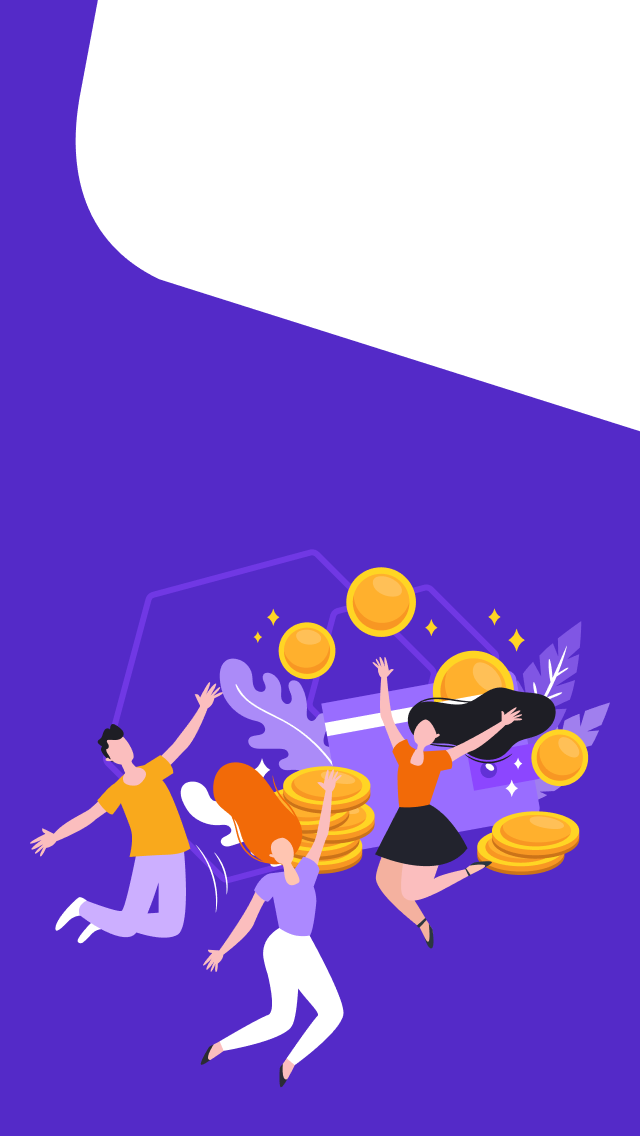
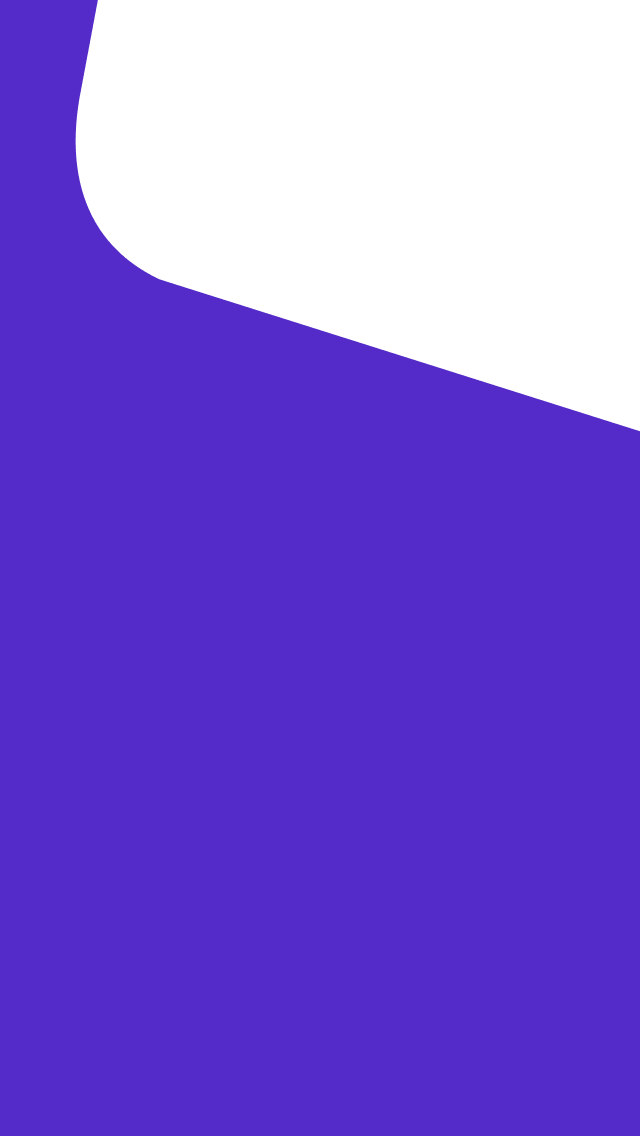
28.05.2020

diff --git a/program.html b/program.html
@@ -124,6 +124,33 @@
 						<path fill-rule="evenodd" clip-rule="evenodd" d="M174.639 63.7755L176.5 59.2242L171.951 55.0867L176.706 56.9486L178.154 52.1904L178.567 58.3967L183.322 59.8449L177.947 59.638L174.639 63.7755ZM179.187 62.3274C179.808 62.1205 180.014 61.293 179.808 60.8793C179.601 60.2586 178.774 60.0518 178.36 60.2586C177.74 60.4655 177.533 61.293 177.74 61.7068C177.947 62.3274 178.774 62.7412 179.187 62.3274Z" fill="#F1E9FF"></path>
 					</svg>
 				</div>
+				<div class="apendixLogoW">
+					<svg viewBox="0 0 577 82" fill="none" xmlns="http://www.w3.org/2000/svg">
+						<path fill-rule="evenodd" clip-rule="evenodd" d="M51.6156 80.3269V77.6375C46.6536 77.0169 45.8266 75.9825 43.1389 69.3624C38.177 56.7429 33.4218 43.7097 28.6666 30.8833L24.7383 31.9177L9.23224 69.7762C6.75127 76.1894 5.92428 77.2238 0.755576 77.6375L0.548828 80.3269H17.5022V77.6375C11.92 77.0169 11.92 75.7756 12.9537 72.4656C13.7807 69.3624 14.8144 66.673 15.6414 64.1905H30.3205C31.561 67.2937 32.8015 70.6037 33.4218 72.8793C34.4555 75.9825 34.2488 77.0169 29.7003 77.6375V80.3269H51.6156ZM29.0801 60.2598H17.0887C18.9494 55.0879 21.0169 49.7091 23.0844 44.3303H23.2911L29.0801 60.2598ZM129.766 80.3269V77.6375C123.771 77.0169 123.357 76.3962 123.357 69.3624L122.53 42.2616C122.323 36.0552 122.737 35.2277 128.733 34.6071V31.9177H113.64L98.3406 64.6043L83.4548 31.9177H67.7419V34.6071C74.3579 35.2277 74.9781 36.2621 74.1511 44.7441L72.9106 59.0186C72.2904 67.0868 71.6702 70.8106 71.2567 73.2931C70.8432 75.9825 69.3959 77.2238 65.0542 77.6375V80.3269H83.4548V77.6375C78.2861 77.2238 77.0456 76.6031 76.6321 73.2931C76.4254 70.8106 76.2186 67.5005 76.6321 61.2942L77.6658 41.8478H77.8726L93.5854 79.9132H95.6529L112.606 41.434H113.02L113.227 69.7762C113.433 76.6031 112.813 77.4306 107.231 78.0513V80.7407H129.766V80.3269ZM176.698 80.3269V77.6375C171.116 77.0169 170.289 76.6031 170.289 70.1899V41.8478C170.289 35.4346 170.909 35.0209 176.698 34.6071V31.9177H153.956V34.6071C159.538 35.0209 160.365 35.6415 160.365 41.8478V70.1899C160.365 76.6031 159.538 77.0169 153.956 77.6375V80.3269H176.698ZM247.819 78.465C245.959 77.8444 244.925 77.0169 243.271 75.3619C241.824 73.7068 240.17 71.4312 237.482 67.2937C235.208 63.9836 232.52 59.0186 231.28 56.9498C236.242 55.0879 240.79 51.3641 240.79 44.7441C240.79 40.1928 238.723 36.8828 235.828 34.814C232.727 32.7452 228.799 32.1246 221.976 32.1246H200.888V34.814C206.47 35.2277 207.09 36.0553 207.09 42.0547V70.3968C207.09 76.3962 206.056 77.2238 200.474 77.8444V80.5338H223.216V77.8444C217.428 77.2238 216.807 76.6031 216.807 70.3968V59.6392H218.255C220.735 59.6392 222.183 60.4667 223.423 62.7424C225.697 66.673 227.558 70.6037 229.626 73.7068C232.727 78.2581 235.621 80.5338 245.339 80.9475C246.165 80.9475 246.992 80.9475 247.406 80.9475L247.819 78.465ZM217.014 56.7429V38.5378C217.014 37.0896 217.221 36.2621 217.634 35.8484C218.255 35.4346 219.288 35.0209 221.149 35.0209C225.491 35.0209 230.039 37.9171 230.039 45.7785C230.039 49.5022 229.005 52.3985 226.318 54.6742C224.664 56.1223 221.976 56.7429 218.668 56.7429H217.014ZM304.055 66.673C300.127 74.3275 295.785 78.465 287.929 78.465C275.937 78.465 267.461 69.1556 267.461 55.0879C267.461 44.1234 274.283 33.5727 287.308 33.5727C295.578 33.5727 300.747 36.8828 302.814 44.951L305.089 44.5372C304.675 40.3997 304.055 37.0896 303.435 32.9521C301.367 32.5383 295.785 30.8833 289.376 30.8833C271.802 30.8833 259.191 41.2272 259.191 56.7429C259.191 68.5349 267.874 81.3613 287.515 81.3613C293.097 81.3613 299.92 79.7063 301.987 79.2925C303.228 77.0169 305.295 71.0174 306.329 67.5005L304.055 66.673ZM356.982 80.12V78.0513C352.02 77.6375 350.987 76.81 348.506 70.1899C343.544 57.1567 338.582 43.9166 333.827 30.8833L331.139 31.504L315.219 70.1899C312.532 76.81 311.498 77.2238 306.536 78.0513V80.12H323.283V78.0513C317.494 77.4306 316.873 76.6031 318.527 72.0518C319.561 69.1556 320.595 66.2593 321.835 62.7424H338.168C339.822 67.0868 341.063 70.6037 342.303 73.7068C343.337 76.6031 342.717 77.4306 337.962 78.0513V80.12H356.982ZM337.135 59.6392H323.076C325.35 53.6398 327.831 47.2266 330.105 41.2272H330.312L337.135 59.6392ZM364.425 31.9177V33.9865C370.008 34.4002 370.628 34.6071 370.628 41.2272V70.6037C370.628 76.81 370.008 77.4306 364.012 77.8444V79.9132H385.1V77.8444C378.277 77.4306 377.451 77.0169 377.451 70.6037V59.2255L383.033 60.6736C383.86 60.6736 385.514 60.6736 386.547 60.4667C393.99 59.6392 401.433 54.881 401.433 45.1578C401.433 40.1928 399.573 36.8828 396.471 34.6071C393.37 32.5383 389.028 31.7108 383.653 31.7108H364.425V31.9177ZM377.864 38.7446C377.864 36.6759 378.071 35.8484 378.691 35.4346C379.311 34.814 380.758 34.6071 382.826 34.6071C388.822 34.6071 393.99 37.9171 393.99 45.9853C393.99 55.5017 387.995 57.9842 383.239 57.9842C380.758 57.9842 378.691 57.3636 377.864 57.1567V38.7446ZM430.171 80.12V78.0513C423.969 77.6375 423.349 77.2237 423.349 70.8106V41.434C423.349 35.0209 423.969 34.6071 430.171 34.1934V31.9177H409.496V34.1934C415.699 34.6071 416.319 35.0209 416.319 41.434V70.8106C416.319 77.2237 415.699 77.6375 409.496 78.0513V80.12H430.171ZM481.651 43.7097C481.238 39.1584 480.824 33.5727 480.824 30.2627H479.171C477.93 31.7108 477.31 32.1246 475.242 32.1246H444.437C442.163 32.1246 441.336 32.1246 440.095 30.2627H438.441C438.234 34.4002 438.028 39.1584 437.614 44.1234H439.888C440.922 40.6065 441.542 38.5378 442.576 37.0896C443.61 35.4346 445.264 34.814 451.88 34.814H456.221V71.0174C456.221 77.0169 455.601 77.8444 448.572 78.2581V80.3269H471.107V78.2581C463.871 77.8444 463.251 77.0169 463.251 71.0174V34.814H468.42C474.209 34.814 475.449 35.4346 476.896 37.0896C477.93 38.3309 478.757 40.3997 479.377 44.1234L481.651 43.7097ZM532.305 80.12V78.0513C527.343 77.6375 526.309 76.81 523.828 70.1899C518.866 57.1567 513.904 43.9166 509.149 30.8833L506.461 31.504L490.542 70.1899C487.854 76.81 486.82 77.2238 481.858 78.0513V80.12H498.605V78.0513C492.816 77.4306 492.196 76.6031 493.85 72.0518C494.883 69.1556 495.917 66.2593 497.158 62.7424H513.491C515.145 67.0868 516.385 70.6037 517.626 73.7068C518.659 76.6031 518.039 77.4306 513.284 78.0513V80.12H532.305ZM512.25 59.6392H498.398C500.672 53.6398 503.153 47.2266 505.427 41.2272H505.634L512.25 59.6392ZM574.481 67.9143C573.241 71.4312 571.794 73.9137 570.346 75.3619C568.692 77.2237 566.005 77.8444 561.87 77.8444C558.975 77.8444 556.288 77.6375 554.84 76.81C553.393 75.9825 552.98 74.5344 552.98 70.6037V41.6409C552.98 35.2277 553.6 34.814 559.595 34.4002V32.1246H539.127V34.4002C545.33 34.814 545.95 35.2277 545.95 41.6409V70.6037C545.95 77.0169 545.33 77.6375 538.714 78.0513V80.12H573.654C574.481 77.8444 575.929 70.8106 576.549 68.1212L574.481 67.9143Z" fill="#fff"></path>
+						<path fill-rule="evenodd" clip-rule="evenodd" d="M169.883 0.885279L166.369 4.40219L168.85 10.1947L165.128 6.47096L161.82 10.1947L164.095 4.40219L160.373 1.09216L165.128 3.57468L169.883 0.885279ZM165.128 0.264648C164.508 0.264648 164.095 0.678402 164.095 1.29903C164.095 1.91966 164.508 2.33342 165.128 2.33342C165.749 2.33342 166.162 1.91966 166.162 1.29903C166.369 0.678402 165.749 0.264648 165.128 0.264648Z" fill="#fff"></path>
+						<path fill-rule="evenodd" clip-rule="evenodd" d="M160.37 0.884766L157.889 5.22918L161.818 9.98735L157.476 7.50483L155.202 12.0561L155.822 5.84981L151.273 3.57417L156.442 4.40167L160.37 0.884766ZM155.615 1.71227C154.995 1.91915 154.788 2.53978 154.788 3.16041C154.995 3.78104 155.615 3.98792 156.235 3.98792C156.856 3.98792 157.062 3.16041 157.062 2.53978C156.856 1.91915 156.235 1.5054 155.615 1.71227Z" fill="#fff"></path>
+						<path fill-rule="evenodd" clip-rule="evenodd" d="M151.071 3.78125L150.038 8.7463L155.206 12.0563L150.244 11.0219L149.417 15.987L148.177 9.98756L143.215 9.16005L148.59 8.53942L151.071 3.78125ZM146.936 5.85002C146.523 6.26377 146.316 6.8844 146.73 7.50503C147.143 7.91879 147.763 8.12567 148.384 7.71191C148.797 7.29816 149.004 6.67753 148.59 6.0569C147.97 5.64314 147.35 5.64314 146.936 5.85002Z" fill="#fff"></path>
+						<path fill-rule="evenodd" clip-rule="evenodd" d="M143.214 9.16016L143.628 14.1252L149.624 15.7802L144.662 16.194L145.282 21.159L142.181 15.7802L137.219 16.6077L141.974 14.3321L143.214 9.16016ZM139.7 12.4702C139.286 12.8839 139.286 13.7114 139.906 14.1252C140.32 14.539 141.147 14.539 141.56 13.9183C141.974 13.5046 141.767 12.6771 141.354 12.2633C140.733 11.8496 140.113 12.0564 139.7 12.4702Z" fill="#fff"></path>
+						<path fill-rule="evenodd" clip-rule="evenodd" d="M137.22 16.6084L139.08 21.1597H145.283L140.527 23.0216L142.595 27.5729L138.046 23.2285L133.498 25.2972L137.426 21.7803L137.22 16.6084ZM134.945 20.7459C134.739 21.3666 134.945 21.9872 135.566 22.1941C136.186 22.401 136.806 22.1941 137.013 21.5734C137.22 20.9528 137.013 20.3322 136.393 20.1253C135.772 19.9184 135.152 20.3322 134.945 20.7459Z" fill="#fff"></path>
+						<path fill-rule="evenodd" clip-rule="evenodd" d="M133.704 25.71L136.805 29.6406L142.801 27.7787L138.872 30.8819L142.18 34.6057L136.598 31.7094L132.877 35.0194L135.564 30.4681L133.704 25.71ZM132.67 30.2613C132.67 30.8819 133.083 31.5025 133.704 31.5025C134.324 31.5025 134.944 31.0888 134.944 30.4681C134.944 29.8475 134.531 29.2269 133.91 29.2269C133.29 29.2269 132.67 29.6406 132.67 30.2613Z" fill="#fff"></path>
+						<path fill-rule="evenodd" clip-rule="evenodd" d="M132.875 35.2261L137.01 38.1224L142.179 34.6055L139.284 38.743L143.626 41.2255L137.423 40.1911L134.942 44.5356L136.183 39.3636L132.875 35.2261ZM133.289 39.9843C133.495 40.6049 134.115 41.0187 134.529 40.8118C135.149 40.6049 135.563 39.9843 135.356 39.5705C135.149 38.9499 134.529 38.5361 134.115 38.743C133.495 38.743 133.289 39.3636 133.289 39.9843Z" fill="#fff"></path>
+						<path fill-rule="evenodd" clip-rule="evenodd" d="M135.145 44.5355L139.9 45.9836L143.621 41.0186L142.174 45.7767L146.929 47.018L140.727 47.8455L139.486 52.6037L139.279 47.2249L135.145 44.5355ZM136.799 49.0868C137.005 49.7074 137.832 49.9143 138.246 49.5005C138.866 49.2936 139.073 48.4661 138.659 48.0524C138.452 47.4317 137.626 47.2249 137.212 47.6386C136.592 47.8455 136.592 48.4661 136.799 49.0868Z" fill="#fff"></path>
+						<path fill-rule="evenodd" clip-rule="evenodd" d="M139.699 52.8131H144.661L146.935 47.0205V51.9856L151.897 51.7787L146.315 54.2612L146.522 59.2262L144.868 54.4681L139.699 52.8131ZM142.8 56.5368C143.214 56.9506 144.041 56.9506 144.454 56.5368C144.868 56.1231 144.868 55.2956 144.454 54.8818C144.041 54.4681 143.214 54.4681 142.8 54.8818C142.18 55.5025 142.387 56.1231 142.8 56.5368Z" fill="#fff"></path>
+						<path fill-rule="evenodd" clip-rule="evenodd" d="M146.725 59.4318L151.48 57.9837L151.893 51.7773L153.341 56.5355L158.096 54.8805L153.547 59.018L155.201 63.7762L152.1 59.6387L146.725 59.4318ZM150.653 62.1212C151.273 62.3281 151.893 62.1212 152.1 61.7074C152.307 61.0868 152.1 60.4662 151.687 60.2593C151.066 60.0524 150.446 60.2593 150.239 60.6731C149.826 61.2937 150.033 61.9143 150.653 62.1212Z" fill="#fff"></path>
+						<path fill-rule="evenodd" clip-rule="evenodd" d="M179.189 3.78022L174.64 6.05587L175.26 12.2622L172.986 7.71088L168.645 10.1934L172.573 5.43524L170.092 1.09082L173.813 4.81461L179.189 3.78022ZM174.847 1.71145C174.227 1.50457 173.606 1.91833 173.4 2.53896C173.193 3.15959 173.606 3.78022 174.227 3.9871C174.847 4.19397 175.467 3.78022 175.674 3.15959C175.674 2.53896 175.467 1.91833 174.847 1.71145Z" fill="#fff"></path>
+						<path fill-rule="evenodd" clip-rule="evenodd" d="M187.044 9.1599L182.082 9.9874L180.842 15.9868L180.015 11.0218L175.26 12.0562L180.428 8.53927L179.395 3.57422L181.876 8.53927L187.044 9.1599ZM183.53 5.84986C183.116 5.43611 182.289 5.64299 181.876 6.05674C181.462 6.4705 181.669 7.298 182.082 7.71176C182.496 8.12551 183.323 7.91863 183.736 7.50488C184.15 7.09113 184.15 6.26362 183.53 5.84986Z" fill="#fff"></path>
+						<path fill-rule="evenodd" clip-rule="evenodd" d="M193.04 16.6077L188.078 15.9871L185.183 21.3659L185.804 16.4008L180.842 15.9871L186.837 14.1252L187.251 9.16016L188.285 14.3321L193.04 16.6077ZM190.766 12.4702C190.352 12.0564 189.732 11.8496 189.112 12.2633C188.698 12.6771 188.491 13.2977 188.905 13.9183C189.318 14.3321 189.939 14.539 190.559 14.1252C190.972 13.7114 190.972 12.8839 190.766 12.4702Z" fill="#fff"></path>
+						<path fill-rule="evenodd" clip-rule="evenodd" d="M196.756 25.7111L192.207 23.6424L187.659 27.9868L189.726 23.4355L185.178 21.5736H191.38L193.241 16.8154L192.827 21.9874L196.756 25.7111ZM195.515 20.953C195.308 20.3323 194.688 20.1255 194.068 20.3323C193.448 20.5392 193.241 21.1598 193.448 21.7805C193.654 22.4011 194.275 22.608 194.895 22.4011C195.515 22.1942 195.929 21.5736 195.515 20.953Z" fill="#fff"></path>
+						<path fill-rule="evenodd" clip-rule="evenodd" d="M197.377 35.4333L193.656 32.1233L188.28 34.8127L191.588 31.0889L187.66 27.9858L193.449 29.8477L196.55 25.917L194.483 30.882L197.377 35.4333ZM197.791 30.6752C197.791 30.0545 197.171 29.6408 196.55 29.6408C195.93 29.6408 195.517 30.2614 195.517 30.882C195.517 31.5027 196.137 31.9164 196.757 31.9164C197.377 31.9164 197.791 31.2958 197.791 30.6752Z" fill="#fff"></path>
+						<path fill-rule="evenodd" clip-rule="evenodd" d="M195.312 44.7426L192.831 40.3982L186.629 41.4326L190.971 38.95L188.283 34.8125L193.245 38.3294L197.38 35.64L194.072 39.7775L195.312 44.7426ZM196.966 40.3982C197.173 39.7775 196.76 39.1569 196.139 38.95C195.519 38.7432 194.899 39.1569 194.692 39.7775C194.485 40.3982 194.899 41.0188 195.519 41.2257C196.139 41.4326 196.76 41.0188 196.966 40.3982Z" fill="#fff"></path>
+						<path fill-rule="evenodd" clip-rule="evenodd" d="M190.348 53.2265L189.314 48.2615L183.111 47.434L188.073 46.1927L186.626 41.4346L190.348 46.3996L195.103 44.9515L190.761 47.8477L190.348 53.2265ZM193.449 49.2959C193.862 48.6753 193.655 48.0546 193.035 47.8477C192.415 47.434 191.795 47.6409 191.588 48.2615C191.175 48.8821 191.381 49.5028 192.002 49.7096C192.415 50.1234 193.035 49.9165 193.449 49.2959Z" fill="#fff"></path>
+						<path fill-rule="evenodd" clip-rule="evenodd" d="M183.321 59.6393L183.735 54.6743L178.152 51.9849L183.114 52.3986V47.4336L185.182 53.2262H190.144L184.975 54.6743L183.321 59.6393ZM187.249 56.9499C187.663 56.5362 187.663 55.9156 187.249 55.2949C186.836 54.8812 186.216 54.8812 185.595 55.2949C185.182 55.7087 185.182 56.3293 185.595 56.9499C186.216 57.3637 186.836 57.3637 187.249 56.9499Z" fill="#fff"></path>
+						<path fill-rule="evenodd" clip-rule="evenodd" d="M174.639 63.7755L176.5 59.2242L171.951 55.0867L176.706 56.9486L178.154 52.1904L178.567 58.3967L183.322 59.8449L177.947 59.638L174.639 63.7755ZM179.187 62.3274C179.808 62.1205 180.014 61.293 179.808 60.8793C179.601 60.2586 178.774 60.0518 178.36 60.2586C177.74 60.4655 177.533 61.293 177.74 61.7068C177.947 62.3274 178.774 62.7412 179.187 62.3274Z" fill="#fff"></path>
+					</svg>
+				</div>
+				<div class="apendixImg">
+					<img src="img/program/promoImg_table.png" alt="">
+				</div>
 				<div class="promoContent_svg">
 					<svg viewBox="0 0 780 722" fill="none" xmlns="http://www.w3.org/2000/svg">
 						<path d="M680.127 288.912C681.012 289.797 681.357 291.087 681.032 292.295L611.454 551.062C611.13 552.267 610.189 553.209 608.983 553.533L350.217 623.111C349.008 623.436 347.718 623.09 346.833 622.206L157.657 433.029C156.772 432.144 156.427 430.854 156.752 429.645L226.329 170.879C226.653 169.674 227.595 168.732 228.801 168.408L487.567 98.8304C488.775 98.5054 490.066 98.8505 490.951 99.7354L680.127 288.912Z" stroke="#7038E4" stroke-width="3"/>

diff --git a/css/program.css b/css/program.css
@@ -5,6 +5,14 @@
 	background-size: cover;
 	color: #fff;
 }
+.apendixImg{
+    display: none;
+    z-index: 3;
+    position: absolute;
+}
+.apendixImg img{
+    width: 100%;
+}
 h1{
 	font-family: 'Gilroy-SemiBold';
 }
@@ -12,6 +20,9 @@ h1{
 	display: block;
 	width: 40vw;
 	top: 50%;
+}
+.apendixLogoW{
+    display: none;
 }
 .bill_head{
     z-index: 21;
@@ -790,6 +801,9 @@ h1{
     .footer .container_bloc{
         padding-top: 0;
     }
+    .desctop-menu>ul>li:nth-child(6) {
+        margin-left: 45px;
+    }
 }
 @media (max-width: 992px) {
     .promoContent .container{
@@ -799,19 +813,29 @@ h1{
         background-size: cover;
     }
     .promoContent_svg{
-        top: 35%;
-        width: 400px;
+        top: 40%;
+        width: 45vw;
+    }
+    .apendixImg{
+        display: block;
+        position: absolute;
+        width: 55%;
+        left: 40%;
+        top: 20%;
     }
 }
 @media (max-width: 768px) {
     .promoContent h5{
-        font-size: 1.25em;
+        font-size: 1.45em;
     }
     .promoContent_svg{
-        display: none;
+        top: 20%;
+        left: 50%;
+        width: 80vw;
+        transform: translateX(-50%);
     }
     .promoContent_text{
-        color:#000;
+        color:#353742;
         top: 150px;
         left: 50%;
         transform: translateX(-50%);
@@ -820,6 +844,12 @@ h1{
     h1{
         font-size: 3em;
         line-height: 150%;
+    }
+    .apendixImg{
+        width: 70%;
+        left: 50%;
+        top: 40%;
+        transform: translateX(-50%);
     }
 }
 @media (max-width: 480px) {
@@ -834,14 +864,63 @@ h1{
     }
     .promoContent_text{
         color: #fff;
-        top: 35%;
+        top: 37%;
     }
     .promoContent h5{
         font-size: 1em;
         margin-top: 5px;
     }
+    .apendixImg{
+        top: 50%;
+        width: 85%;
+    }
+    .promoContent_svg{
+        top: 25%;
+        width: 100vw;
+    }
 }
 @media all and (max-width: 850px) and (orientation : landscape) {
+    .promoContent .container{
+        background: url(../img/program/background_table_horizont.png);
+        background-repeat: no-repeat;
+        background-position: center;
+        background-size: cover;
+    }
+    .apendixLogo{
+        display: none;
+    }
+    .apendixLogoW{
+        display: block;
+        width: 25%;
+        position: absolute;
+        top: 30px;
+        left: 20px;
+    }
+    .promoContent_text{
+        left: 60px;
+        color: #fff;
+        top: 50%;
+        transform: translate(0, -50%);
+        text-align: left;
+    }
+    .promoContent_text h5{
+        font-size: 1.125em;
+    }
+    .promoContent_svg{
+        top: 60%;
+        transform: translate(0, -50%);
+        width: 45vw;
+        left: 0;
+    }
+    .apendixImg{
+        top: 5%;
+        width: 45%;
+        left: 45%;
+        transform: translateX(0);
+    }
+    h1{
+        font-size: 2em;
+    }
 
 }
 @media (height: 1366px) and (width: 1024px){
@@ -852,19 +931,31 @@ h1{
         background-size: cover;
     }
     .promoContent_svg{
-        display: none;
+        display: block;
+        left: 50%;
+        transform: translateX(-50%);
+        width: 100vw;
+        top: 20%;
     }
     .promoContent_text{
-        color: #000;
+        color: #353742;
         top: 200px;
         left: 50%;
         transform: translateX(-50%);
         text-align: center;
+        max-width: fit-content;
     }
     h1{
-        font-size: 2.5em;
+        font-size: 4em;
     }
     .promoContent_text h5{
-        font-size: 1.5em;
+        font-size: 2em;
+    }
+    .apendixImg{
+        display: block;
+        width: 70vw;
+        left: 50%;
+        top: 35%;
+        transform: translateX(-50%);
     }
 }

diff --git a/css/menu&footer.css b/css/menu&footer.css
@@ -54,6 +54,9 @@ h1, h2, h3, h4, h5, h6, p, span, li{
 	cursor: pointer;
 	position: relative;
 }
+.desctop-menu>ul>li:nth-child(6){
+	margin-left: 80px;
+}
 .mainSubmenu{
 	width: 1.125em;
 }
